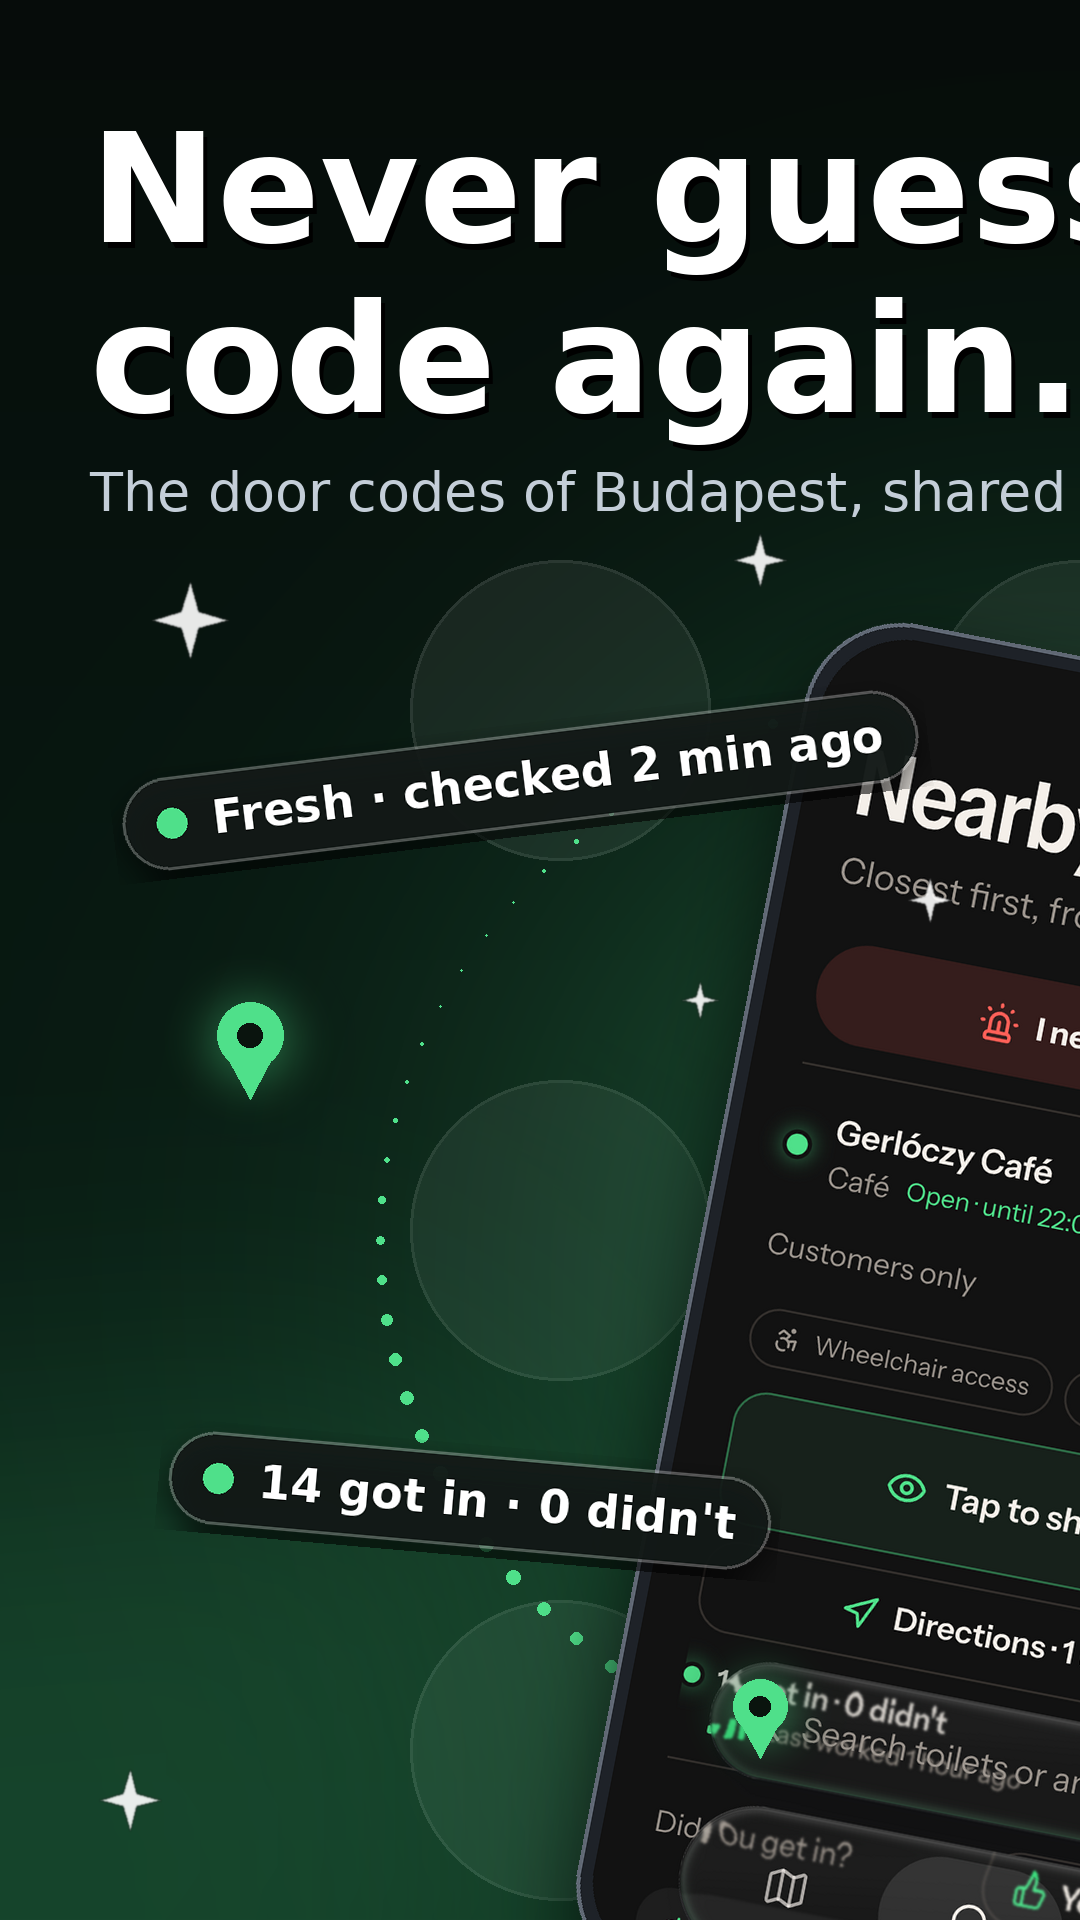
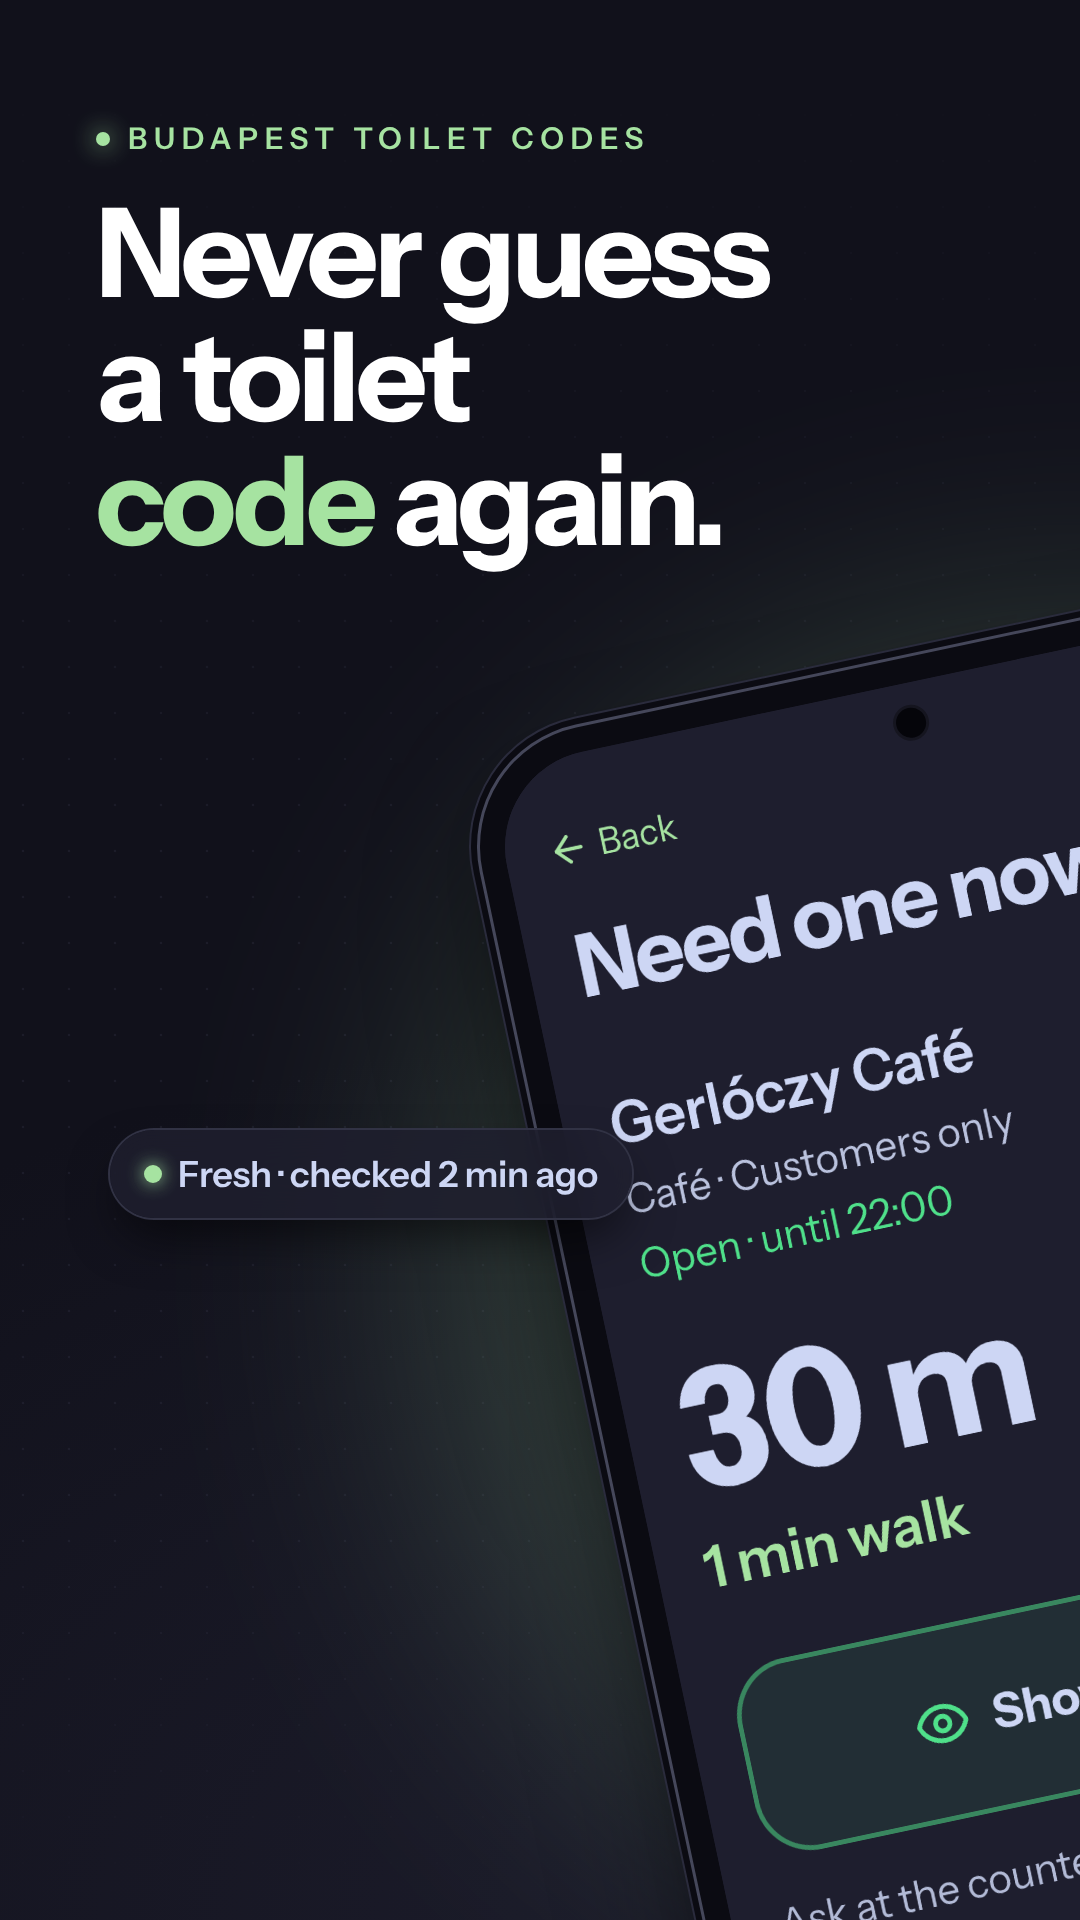
Store screenshots v2: minimal Catppuccin Mocha look, Instrument Sans, modern phone frame, Add form screen
Claude-Session: https://claude.ai/code/session_01T1vt3hfEkVHdKnUiK7zvyb

diff --git a/docs/play-store-screenshots.md b/docs/play-store-screenshots.md
@@ -14,8 +14,14 @@ person swipes from 1 to 2 the picture continues; images 3, 4 and 5 stand alone.
 
 `play-store-screenshots-plan.png` next to this file shows the layout with the real app screens in place. Ready-to-use drafts of all five
 images (1080×1920) are in `store-images/`: `01-left.png` and `02-right.png` are the two halves of `panorama-2160x1920.png` (a tilted phone cut in half by the seam, with
-floating chips, pins, a code chip and a rank badge), then `03-add.png`, `04-rank.png`, `05-promises.png`. Upload them as they are, or use them as the layout reference for the
+three small chips), then `03-add.png`, `04-rank.png`, `05-promises.png`. Upload them as they are, or use them as the layout reference for the
 generator prompts below. Replace the app screens with fresh screenshots from your phone (with real data) before the final upload.
+
+## Look
+
+Minimal, on Catppuccin Mocha: crust/base background, one soft glow per image in its own accent (green, mauve, yellow, lavender), the app's own font
+(Instrument Sans) with tight letter spacing, one highlighted word per headline, and a modern phone (19.5:9 screen, thin bezel, punch-hole camera) drawn
+in HTML, so there is no licence question about a downloaded mockup. The app screens were taken with the app's Catppuccin Green palette.
 
 ## What makes store screenshots work (short, and honest about the evidence)
 
